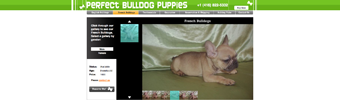
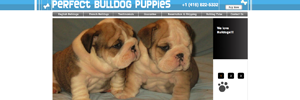
updated code

diff --git a/public/stylesheets/style.css b/public/stylesheets/style.css
@@ -83,6 +83,8 @@ img.logo {
   z-index: 100;
 }
 
+.logo2 { position: absolute; bottom: 0px; right: 20px }
+
 #content {
   float: left;
   position: relative;
